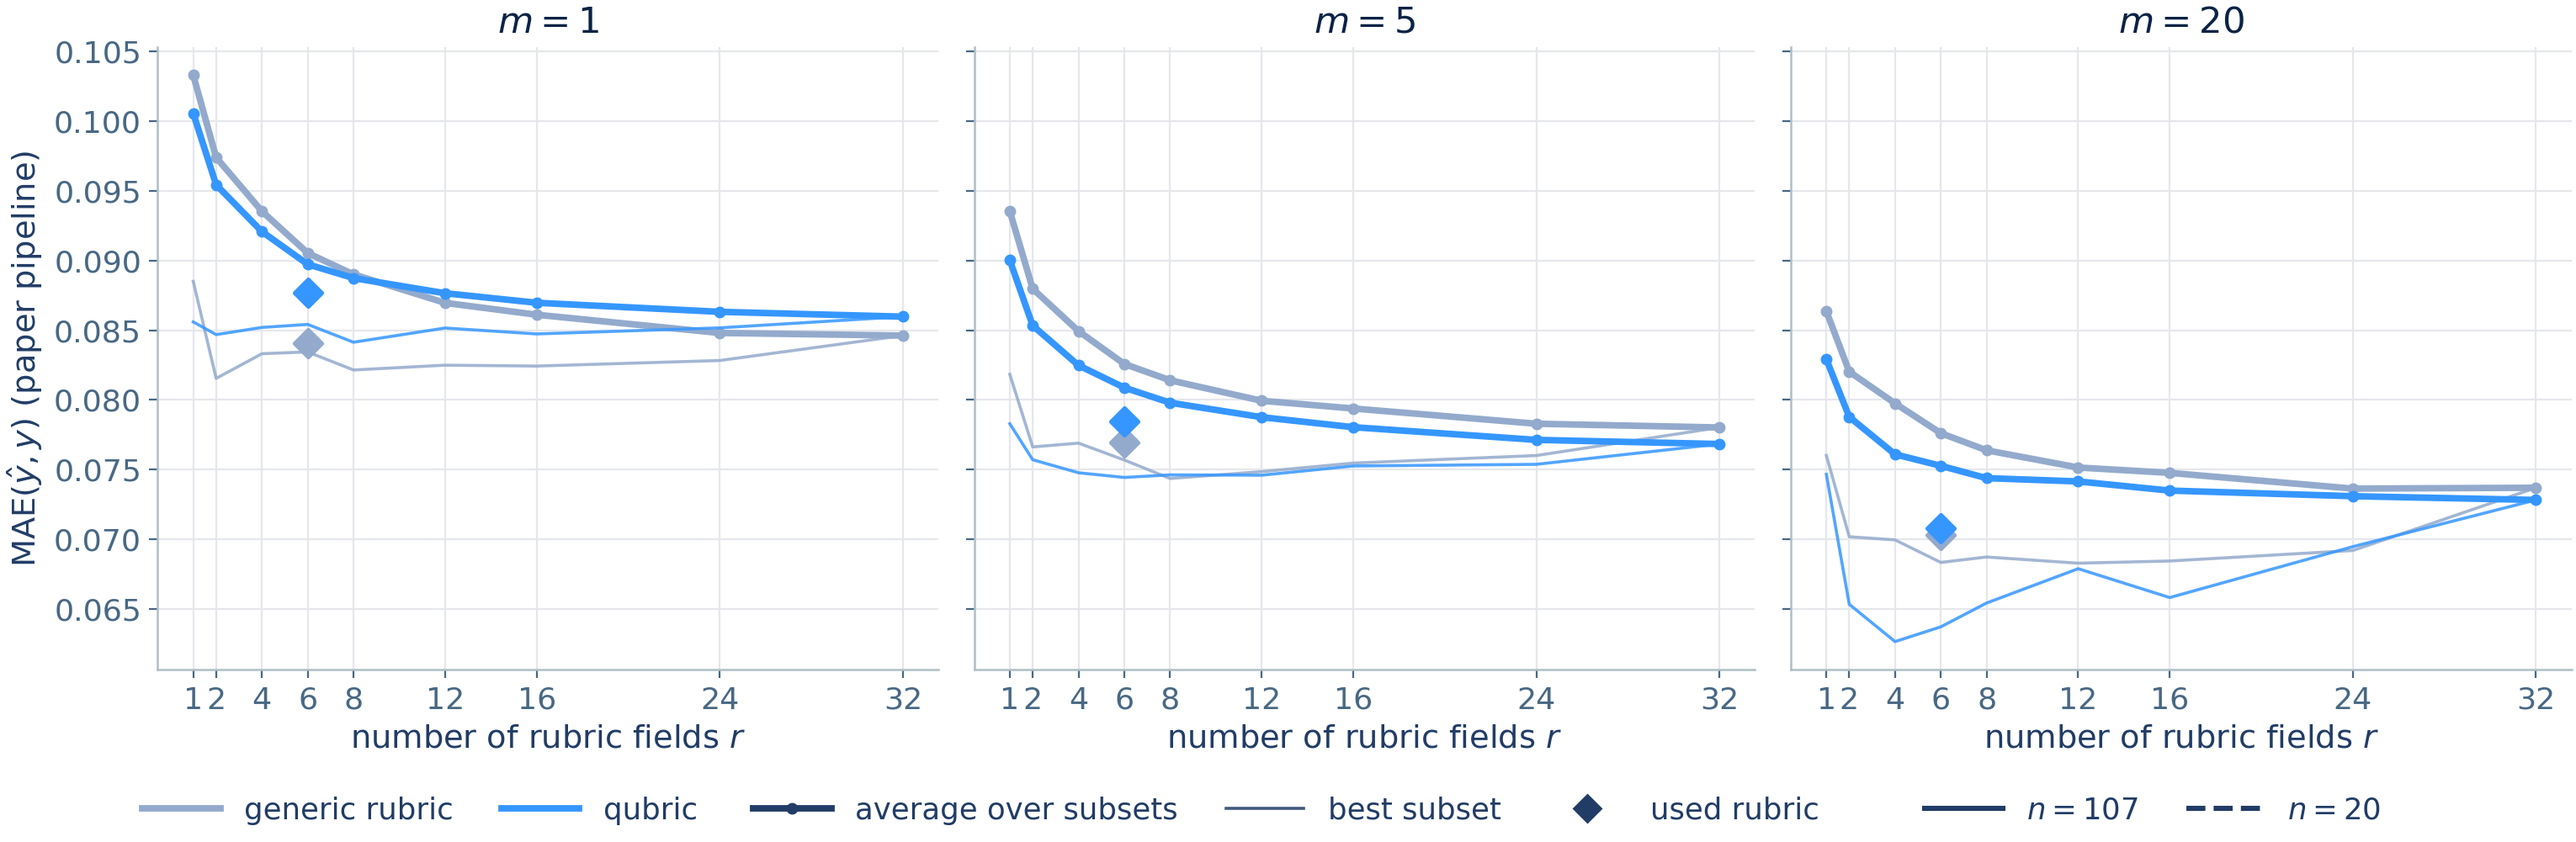
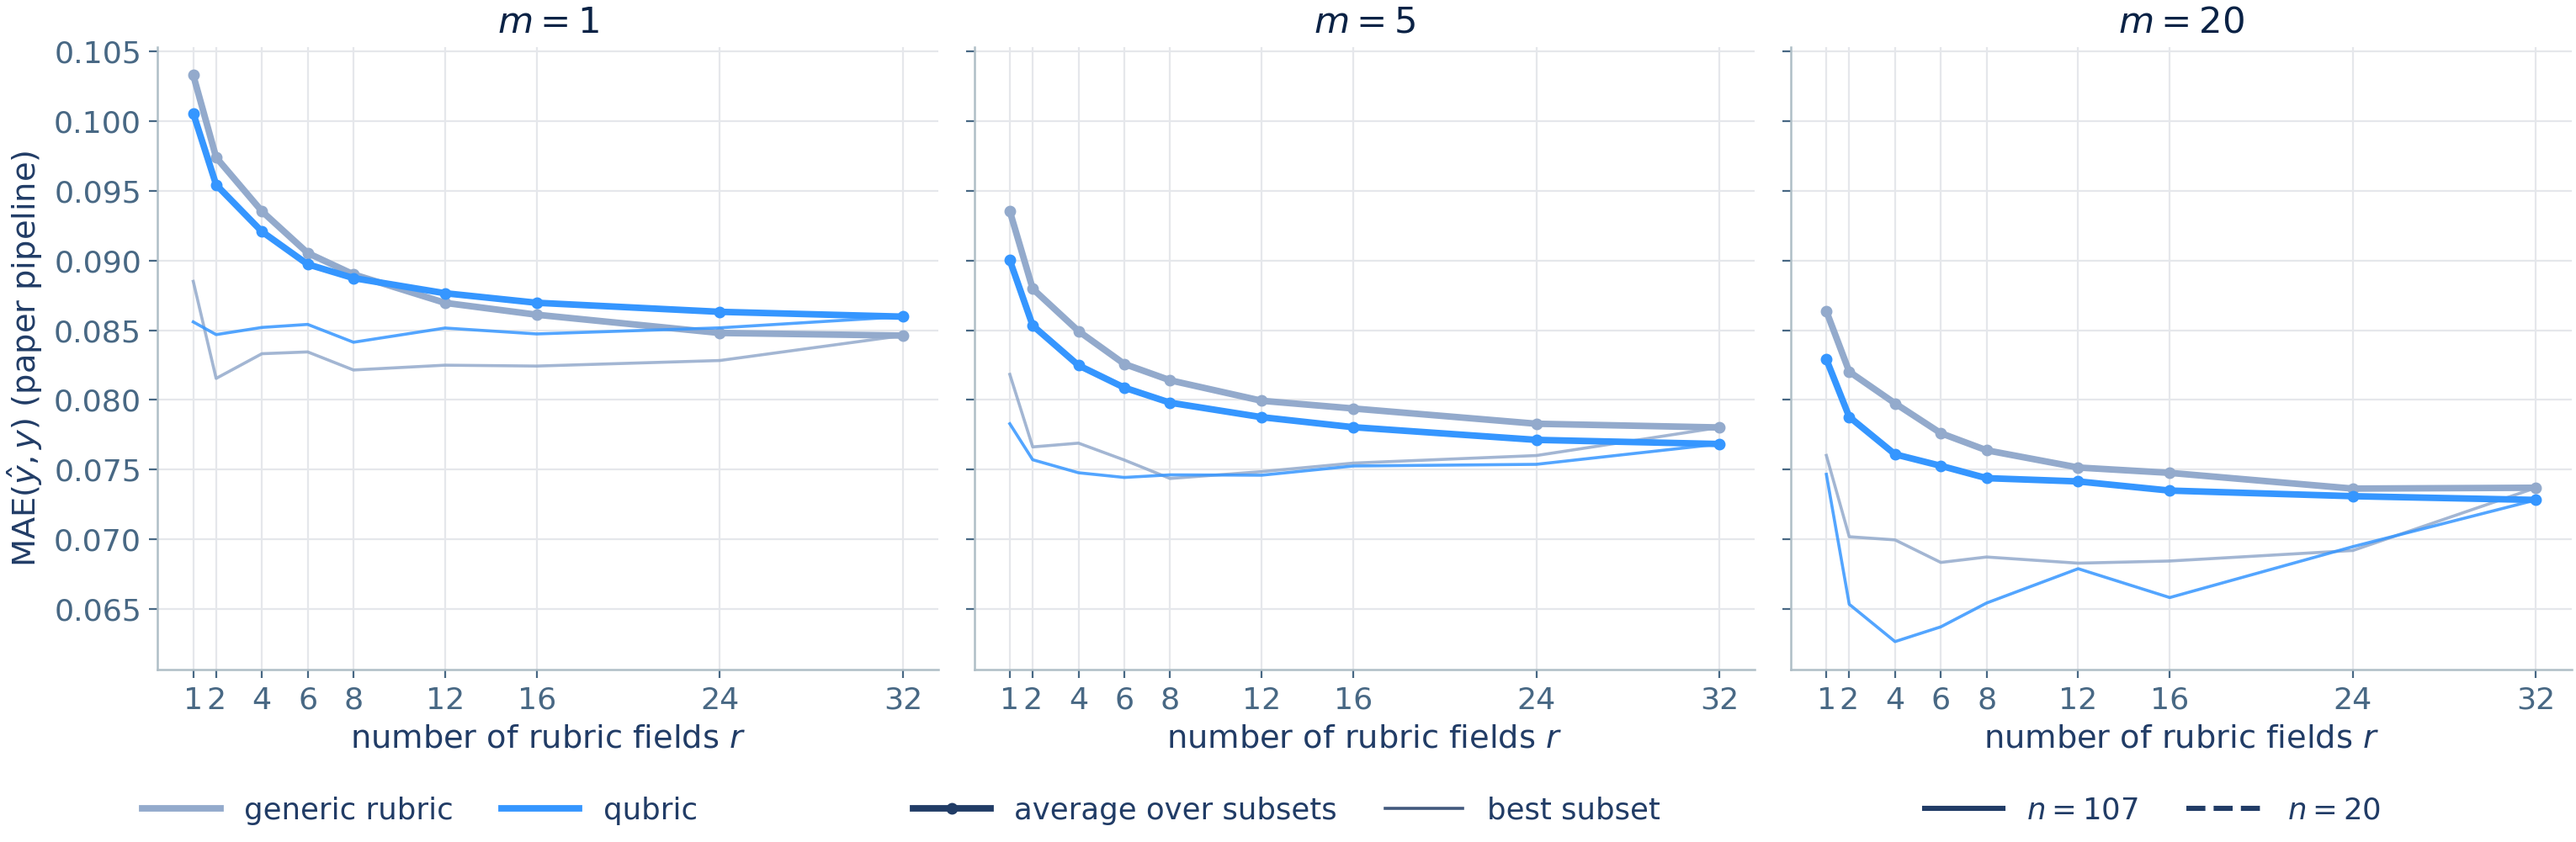
sensitivity: remove used-rubric diamonds
Claude-Session: https://claude.ai/code/session_01RGusFFXzoPTkSKgzzDLjNv

diff --git a/scripts/rubric_sens_paper.py b/scripts/rubric_sens_paper.py
@@ -227,11 +227,6 @@ def render(results):
                         marker='o', ms=4)
                 ax.plot(rs, best, color=st['color'], lw=1.3, ls=ls,
                         alpha=.85)
-                if 'orig6' in res:
-                    ax.scatter([6], [res['orig6']], marker='D', s=70,
-                               color=st['color'], zorder=5,
-                               facecolor=st['color'] if ls == '-'
-                               else 'white', lw=1.6)
         ax.set_title(f'$m = {m0}$', fontsize=SZ['label'],
                      color=hv_style.INK_TITLE)
         ax.set_xlabel('number of rubric fields $r$',
@@ -249,9 +244,7 @@ def render(results):
         (.50, [Line2D([], [], color=ink, lw=2.8, marker='o', ms=4,
                           label='average over subsets'),
                    Line2D([], [], color=ink, lw=1.3, alpha=.85,
-                          label='best subset'),
-                   Line2D([], [], color=ink, lw=0, marker='D', ms=8,
-                          label='used rubric')]),
+                          label='best subset')]),
         (.83, [Line2D([], [], color=ink, lw=2.2, ls='-',
                           label='$n = 107$'),
                    Line2D([], [], color=ink, lw=2.2, ls='--',
